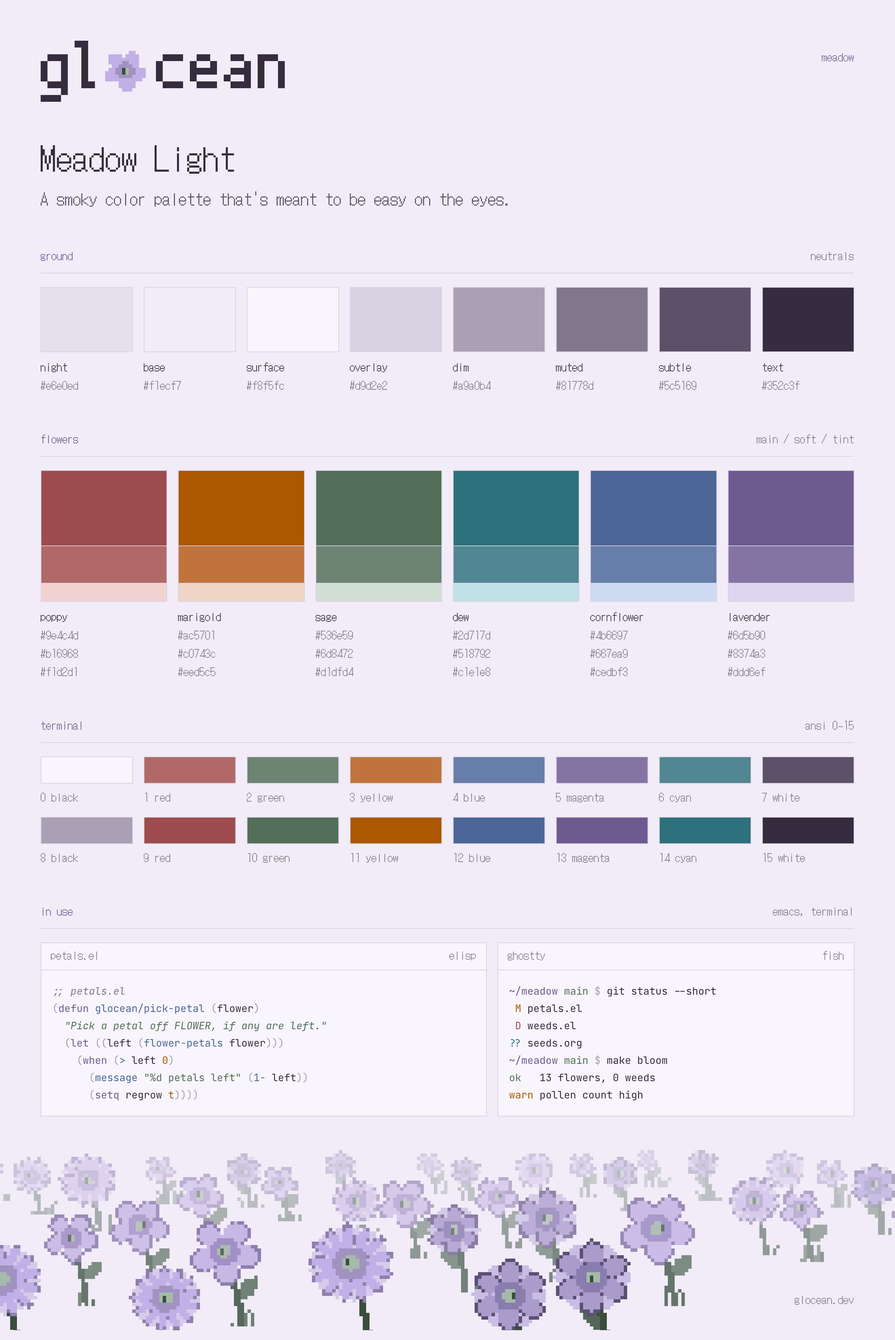
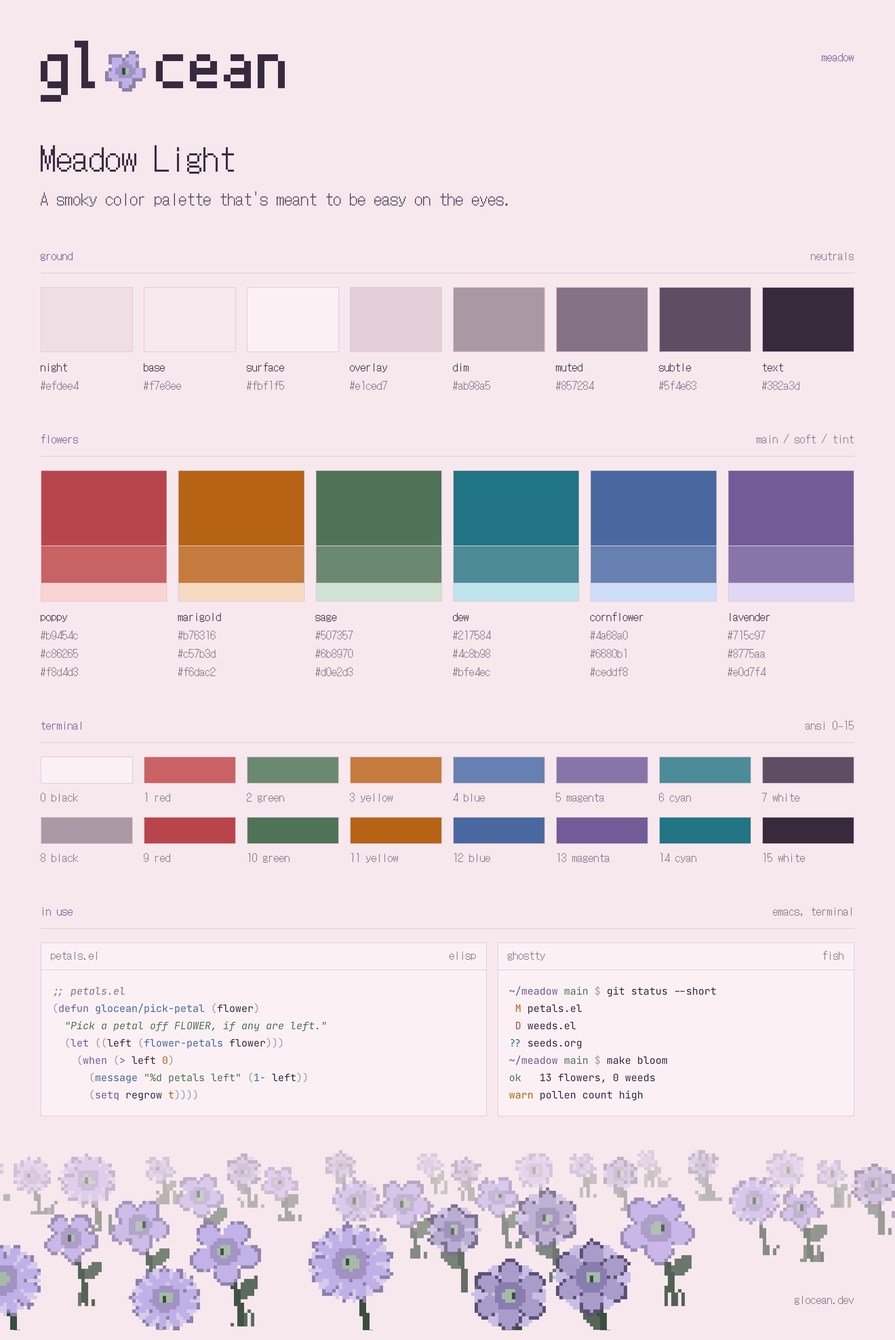
meadow: make light rosy

Changed region(s): [[0.0311, 0.3425, 0.1864, 0.4048], [0.1553, 0.5916, 0.2795, 0.6539], [0.1242, 0.0311, 0.1553, 0.0623]]

diff --git a/meadow/index.html b/meadow/index.html
@@ -5,7 +5,7 @@
   <meta name="viewport" content="width=device-width, initial-scale=1.0">
   <title>Glocean - meadow</title>
   <script>(function(){var e=document.documentElement;e.className+=' js';try{var t=localStorage.getItem('theme');if(t==='light'||t==='dark')e.setAttribute('data-theme',t);}catch(n){}})();</script>
-  <style>html{color-scheme:dark;background:#1f1a24}@media(prefers-color-scheme:light){html:not([data-theme=dark]){color-scheme:light;background:#f1ecf7}}html[data-theme=light]{color-scheme:light;background:#f1ecf7}</style>
+  <style>html{color-scheme:dark;background:#1f1a24}@media(prefers-color-scheme:light){html:not([data-theme=dark]){color-scheme:light;background:#f7e8ee}}html[data-theme=light]{color-scheme:light;background:#f7e8ee}</style>
   <meta name="theme-color" content="#c1b0e7">
   <meta property="og:title" content="Glocean - meadow">
   <meta property="og:image" content="https://glocean.dev/assets/og.png">
@@ -100,44 +100,44 @@
 
               <div class="pal-label"><span>ground</span><span>neutrals</span></div>
               <div class="swatches">
-                <button type="button" class="swatch" data-hex="#e6e0ed" aria-label="copy night #e6e0ed"><span class="chip" style="background:#e6e0ed"></span><span>night</span><span class="hex">#e6e0ed</span></button>
-                <button type="button" class="swatch" data-hex="#f1ecf7" aria-label="copy base #f1ecf7"><span class="chip" style="background:#f1ecf7"></span><span>base</span><span class="hex">#f1ecf7</span></button>
-                <button type="button" class="swatch" data-hex="#f8f5fc" aria-label="copy surface #f8f5fc"><span class="chip" style="background:#f8f5fc"></span><span>surface</span><span class="hex">#f8f5fc</span></button>
-                <button type="button" class="swatch" data-hex="#d9d2e2" aria-label="copy overlay #d9d2e2"><span class="chip" style="background:#d9d2e2"></span><span>overlay</span><span class="hex">#d9d2e2</span></button>
-                <button type="button" class="swatch" data-hex="#a9a0b4" aria-label="copy dim #a9a0b4"><span class="chip" style="background:#a9a0b4"></span><span>dim</span><span class="hex">#a9a0b4</span></button>
-                <button type="button" class="swatch" data-hex="#81778d" aria-label="copy muted #81778d"><span class="chip" style="background:#81778d"></span><span>muted</span><span class="hex">#81778d</span></button>
-                <button type="button" class="swatch" data-hex="#5c5169" aria-label="copy subtle #5c5169"><span class="chip" style="background:#5c5169"></span><span>subtle</span><span class="hex">#5c5169</span></button>
-                <button type="button" class="swatch" data-hex="#352c3f" aria-label="copy text #352c3f"><span class="chip" style="background:#352c3f"></span><span>text</span><span class="hex">#352c3f</span></button>
+                <button type="button" class="swatch" data-hex="#efdee4" aria-label="copy night #efdee4"><span class="chip" style="background:#efdee4"></span><span>night</span><span class="hex">#efdee4</span></button>
+                <button type="button" class="swatch" data-hex="#f7e8ee" aria-label="copy base #f7e8ee"><span class="chip" style="background:#f7e8ee"></span><span>base</span><span class="hex">#f7e8ee</span></button>
+                <button type="button" class="swatch" data-hex="#fbf1f5" aria-label="copy surface #fbf1f5"><span class="chip" style="background:#fbf1f5"></span><span>surface</span><span class="hex">#fbf1f5</span></button>
+                <button type="button" class="swatch" data-hex="#e1ced7" aria-label="copy overlay #e1ced7"><span class="chip" style="background:#e1ced7"></span><span>overlay</span><span class="hex">#e1ced7</span></button>
+                <button type="button" class="swatch" data-hex="#ab98a5" aria-label="copy dim #ab98a5"><span class="chip" style="background:#ab98a5"></span><span>dim</span><span class="hex">#ab98a5</span></button>
+                <button type="button" class="swatch" data-hex="#857284" aria-label="copy muted #857284"><span class="chip" style="background:#857284"></span><span>muted</span><span class="hex">#857284</span></button>
+                <button type="button" class="swatch" data-hex="#5f4e63" aria-label="copy subtle #5f4e63"><span class="chip" style="background:#5f4e63"></span><span>subtle</span><span class="hex">#5f4e63</span></button>
+                <button type="button" class="swatch" data-hex="#382a3d" aria-label="copy text #382a3d"><span class="chip" style="background:#382a3d"></span><span>text</span><span class="hex">#382a3d</span></button>
               </div>
 
               <div class="pal-label"><span>flowers</span><span>main / soft / tint</span></div>
               <div class="swatches flowers">
-                <div class="flower"><span>poppy</span><button type="button" class="shade" data-hex="#9e4c4d" aria-label="copy poppy main #9e4c4d"><span class="chip" style="background:#9e4c4d"></span><span class="hex">#9e4c4d</span></button><button type="button" class="shade" data-hex="#b16968" aria-label="copy poppy soft #b16968"><span class="chip" style="background:#b16968"></span><span class="hex">#b16968</span></button><button type="button" class="shade" data-hex="#f1d2d1" aria-label="copy poppy tint #f1d2d1"><span class="chip" style="background:#f1d2d1"></span><span class="hex">#f1d2d1</span></button></div>
-                <div class="flower"><span>marigold</span><button type="button" class="shade" data-hex="#ac5701" aria-label="copy marigold main #ac5701"><span class="chip" style="background:#ac5701"></span><span class="hex">#ac5701</span></button><button type="button" class="shade" data-hex="#c0743c" aria-label="copy marigold soft #c0743c"><span class="chip" style="background:#c0743c"></span><span class="hex">#c0743c</span></button><button type="button" class="shade" data-hex="#eed5c5" aria-label="copy marigold tint #eed5c5"><span class="chip" style="background:#eed5c5"></span><span class="hex">#eed5c5</span></button></div>
-                <div class="flower"><span>sage</span><button type="button" class="shade" data-hex="#536e59" aria-label="copy sage main #536e59"><span class="chip" style="background:#536e59"></span><span class="hex">#536e59</span></button><button type="button" class="shade" data-hex="#6d8472" aria-label="copy sage soft #6d8472"><span class="chip" style="background:#6d8472"></span><span class="hex">#6d8472</span></button><button type="button" class="shade" data-hex="#d1dfd4" aria-label="copy sage tint #d1dfd4"><span class="chip" style="background:#d1dfd4"></span><span class="hex">#d1dfd4</span></button></div>
-                <div class="flower"><span>dew</span><button type="button" class="shade" data-hex="#2d717d" aria-label="copy dew main #2d717d"><span class="chip" style="background:#2d717d"></span><span class="hex">#2d717d</span></button><button type="button" class="shade" data-hex="#518792" aria-label="copy dew soft #518792"><span class="chip" style="background:#518792"></span><span class="hex">#518792</span></button><button type="button" class="shade" data-hex="#c1e1e8" aria-label="copy dew tint #c1e1e8"><span class="chip" style="background:#c1e1e8"></span><span class="hex">#c1e1e8</span></button></div>
-                <div class="flower"><span>cornflower</span><button type="button" class="shade" data-hex="#4b6697" aria-label="copy cornflower main #4b6697"><span class="chip" style="background:#4b6697"></span><span class="hex">#4b6697</span></button><button type="button" class="shade" data-hex="#667ea9" aria-label="copy cornflower soft #667ea9"><span class="chip" style="background:#667ea9"></span><span class="hex">#667ea9</span></button><button type="button" class="shade" data-hex="#cedbf3" aria-label="copy cornflower tint #cedbf3"><span class="chip" style="background:#cedbf3"></span><span class="hex">#cedbf3</span></button></div>
-                <div class="flower"><span>lavender</span><button type="button" class="shade" data-hex="#6d5b90" aria-label="copy lavender main #6d5b90"><span class="chip" style="background:#6d5b90"></span><span class="hex">#6d5b90</span></button><button type="button" class="shade" data-hex="#8374a3" aria-label="copy lavender soft #8374a3"><span class="chip" style="background:#8374a3"></span><span class="hex">#8374a3</span></button><button type="button" class="shade" data-hex="#ddd6ef" aria-label="copy lavender tint #ddd6ef"><span class="chip" style="background:#ddd6ef"></span><span class="hex">#ddd6ef</span></button></div>
+                <div class="flower"><span>poppy</span><button type="button" class="shade" data-hex="#b9454c" aria-label="copy poppy main #b9454c"><span class="chip" style="background:#b9454c"></span><span class="hex">#b9454c</span></button><button type="button" class="shade" data-hex="#c86265" aria-label="copy poppy soft #c86265"><span class="chip" style="background:#c86265"></span><span class="hex">#c86265</span></button><button type="button" class="shade" data-hex="#f8d4d3" aria-label="copy poppy tint #f8d4d3"><span class="chip" style="background:#f8d4d3"></span><span class="hex">#f8d4d3</span></button></div>
+                <div class="flower"><span>marigold</span><button type="button" class="shade" data-hex="#b76316" aria-label="copy marigold main #b76316"><span class="chip" style="background:#b76316"></span><span class="hex">#b76316</span></button><button type="button" class="shade" data-hex="#c57b3d" aria-label="copy marigold soft #c57b3d"><span class="chip" style="background:#c57b3d"></span><span class="hex">#c57b3d</span></button><button type="button" class="shade" data-hex="#f6dac2" aria-label="copy marigold tint #f6dac2"><span class="chip" style="background:#f6dac2"></span><span class="hex">#f6dac2</span></button></div>
+                <div class="flower"><span>sage</span><button type="button" class="shade" data-hex="#507357" aria-label="copy sage main #507357"><span class="chip" style="background:#507357"></span><span class="hex">#507357</span></button><button type="button" class="shade" data-hex="#6b8970" aria-label="copy sage soft #6b8970"><span class="chip" style="background:#6b8970"></span><span class="hex">#6b8970</span></button><button type="button" class="shade" data-hex="#d0e2d3" aria-label="copy sage tint #d0e2d3"><span class="chip" style="background:#d0e2d3"></span><span class="hex">#d0e2d3</span></button></div>
+                <div class="flower"><span>dew</span><button type="button" class="shade" data-hex="#217584" aria-label="copy dew main #217584"><span class="chip" style="background:#217584"></span><span class="hex">#217584</span></button><button type="button" class="shade" data-hex="#4c8b98" aria-label="copy dew soft #4c8b98"><span class="chip" style="background:#4c8b98"></span><span class="hex">#4c8b98</span></button><button type="button" class="shade" data-hex="#bfe4ec" aria-label="copy dew tint #bfe4ec"><span class="chip" style="background:#bfe4ec"></span><span class="hex">#bfe4ec</span></button></div>
+                <div class="flower"><span>cornflower</span><button type="button" class="shade" data-hex="#4a68a0" aria-label="copy cornflower main #4a68a0"><span class="chip" style="background:#4a68a0"></span><span class="hex">#4a68a0</span></button><button type="button" class="shade" data-hex="#6680b1" aria-label="copy cornflower soft #6680b1"><span class="chip" style="background:#6680b1"></span><span class="hex">#6680b1</span></button><button type="button" class="shade" data-hex="#ceddf8" aria-label="copy cornflower tint #ceddf8"><span class="chip" style="background:#ceddf8"></span><span class="hex">#ceddf8</span></button></div>
+                <div class="flower"><span>lavender</span><button type="button" class="shade" data-hex="#715c97" aria-label="copy lavender main #715c97"><span class="chip" style="background:#715c97"></span><span class="hex">#715c97</span></button><button type="button" class="shade" data-hex="#8775aa" aria-label="copy lavender soft #8775aa"><span class="chip" style="background:#8775aa"></span><span class="hex">#8775aa</span></button><button type="button" class="shade" data-hex="#e0d7f4" aria-label="copy lavender tint #e0d7f4"><span class="chip" style="background:#e0d7f4"></span><span class="hex">#e0d7f4</span></button></div>
               </div>
 
               <div class="pal-label"><span>terminal</span><span>ansi 0-15</span></div>
               <div class="swatches">
-                <button type="button" class="swatch term" data-hex="#f8f5fc" aria-label="copy 0 black #f8f5fc"><span class="chip" style="background:#f8f5fc"></span><span>0 black</span><span class="hex">#f8f5fc</span></button>
-                <button type="button" class="swatch term" data-hex="#b16968" aria-label="copy 1 red #b16968"><span class="chip" style="background:#b16968"></span><span>1 red</span><span class="hex">#b16968</span></button>
-                <button type="button" class="swatch term" data-hex="#6d8472" aria-label="copy 2 green #6d8472"><span class="chip" style="background:#6d8472"></span><span>2 green</span><span class="hex">#6d8472</span></button>
-                <button type="button" class="swatch term" data-hex="#c0743c" aria-label="copy 3 yellow #c0743c"><span class="chip" style="background:#c0743c"></span><span>3 yellow</span><span class="hex">#c0743c</span></button>
-                <button type="button" class="swatch term" data-hex="#667ea9" aria-label="copy 4 blue #667ea9"><span class="chip" style="background:#667ea9"></span><span>4 blue</span><span class="hex">#667ea9</span></button>
-                <button type="button" class="swatch term" data-hex="#8374a3" aria-label="copy 5 magenta #8374a3"><span class="chip" style="background:#8374a3"></span><span>5 magenta</span><span class="hex">#8374a3</span></button>
-                <button type="button" class="swatch term" data-hex="#518792" aria-label="copy 6 cyan #518792"><span class="chip" style="background:#518792"></span><span>6 cyan</span><span class="hex">#518792</span></button>
-                <button type="button" class="swatch term" data-hex="#5c5169" aria-label="copy 7 white #5c5169"><span class="chip" style="background:#5c5169"></span><span>7 white</span><span class="hex">#5c5169</span></button>
-                <button type="button" class="swatch term" data-hex="#a9a0b4" aria-label="copy 8 black #a9a0b4"><span class="chip" style="background:#a9a0b4"></span><span>8 black</span><span class="hex">#a9a0b4</span></button>
-                <button type="button" class="swatch term" data-hex="#9e4c4d" aria-label="copy 9 red #9e4c4d"><span class="chip" style="background:#9e4c4d"></span><span>9 red</span><span class="hex">#9e4c4d</span></button>
-                <button type="button" class="swatch term" data-hex="#536e59" aria-label="copy 10 green #536e59"><span class="chip" style="background:#536e59"></span><span>10 green</span><span class="hex">#536e59</span></button>
-                <button type="button" class="swatch term" data-hex="#ac5701" aria-label="copy 11 yellow #ac5701"><span class="chip" style="background:#ac5701"></span><span>11 yellow</span><span class="hex">#ac5701</span></button>
-                <button type="button" class="swatch term" data-hex="#4b6697" aria-label="copy 12 blue #4b6697"><span class="chip" style="background:#4b6697"></span><span>12 blue</span><span class="hex">#4b6697</span></button>
-                <button type="button" class="swatch term" data-hex="#6d5b90" aria-label="copy 13 magenta #6d5b90"><span class="chip" style="background:#6d5b90"></span><span>13 magenta</span><span class="hex">#6d5b90</span></button>
-                <button type="button" class="swatch term" data-hex="#2d717d" aria-label="copy 14 cyan #2d717d"><span class="chip" style="background:#2d717d"></span><span>14 cyan</span><span class="hex">#2d717d</span></button>
-                <button type="button" class="swatch term" data-hex="#352c3f" aria-label="copy 15 white #352c3f"><span class="chip" style="background:#352c3f"></span><span>15 white</span><span class="hex">#352c3f</span></button>
+                <button type="button" class="swatch term" data-hex="#fbf1f5" aria-label="copy 0 black #fbf1f5"><span class="chip" style="background:#fbf1f5"></span><span>0 black</span><span class="hex">#fbf1f5</span></button>
+                <button type="button" class="swatch term" data-hex="#c86265" aria-label="copy 1 red #c86265"><span class="chip" style="background:#c86265"></span><span>1 red</span><span class="hex">#c86265</span></button>
+                <button type="button" class="swatch term" data-hex="#6b8970" aria-label="copy 2 green #6b8970"><span class="chip" style="background:#6b8970"></span><span>2 green</span><span class="hex">#6b8970</span></button>
+                <button type="button" class="swatch term" data-hex="#c57b3d" aria-label="copy 3 yellow #c57b3d"><span class="chip" style="background:#c57b3d"></span><span>3 yellow</span><span class="hex">#c57b3d</span></button>
+                <button type="button" class="swatch term" data-hex="#6680b1" aria-label="copy 4 blue #6680b1"><span class="chip" style="background:#6680b1"></span><span>4 blue</span><span class="hex">#6680b1</span></button>
+                <button type="button" class="swatch term" data-hex="#8775aa" aria-label="copy 5 magenta #8775aa"><span class="chip" style="background:#8775aa"></span><span>5 magenta</span><span class="hex">#8775aa</span></button>
+                <button type="button" class="swatch term" data-hex="#4c8b98" aria-label="copy 6 cyan #4c8b98"><span class="chip" style="background:#4c8b98"></span><span>6 cyan</span><span class="hex">#4c8b98</span></button>
+                <button type="button" class="swatch term" data-hex="#5f4e63" aria-label="copy 7 white #5f4e63"><span class="chip" style="background:#5f4e63"></span><span>7 white</span><span class="hex">#5f4e63</span></button>
+                <button type="button" class="swatch term" data-hex="#ab98a5" aria-label="copy 8 black #ab98a5"><span class="chip" style="background:#ab98a5"></span><span>8 black</span><span class="hex">#ab98a5</span></button>
+                <button type="button" class="swatch term" data-hex="#b9454c" aria-label="copy 9 red #b9454c"><span class="chip" style="background:#b9454c"></span><span>9 red</span><span class="hex">#b9454c</span></button>
+                <button type="button" class="swatch term" data-hex="#507357" aria-label="copy 10 green #507357"><span class="chip" style="background:#507357"></span><span>10 green</span><span class="hex">#507357</span></button>
+                <button type="button" class="swatch term" data-hex="#b76316" aria-label="copy 11 yellow #b76316"><span class="chip" style="background:#b76316"></span><span>11 yellow</span><span class="hex">#b76316</span></button>
+                <button type="button" class="swatch term" data-hex="#4a68a0" aria-label="copy 12 blue #4a68a0"><span class="chip" style="background:#4a68a0"></span><span>12 blue</span><span class="hex">#4a68a0</span></button>
+                <button type="button" class="swatch term" data-hex="#715c97" aria-label="copy 13 magenta #715c97"><span class="chip" style="background:#715c97"></span><span>13 magenta</span><span class="hex">#715c97</span></button>
+                <button type="button" class="swatch term" data-hex="#217584" aria-label="copy 14 cyan #217584"><span class="chip" style="background:#217584"></span><span>14 cyan</span><span class="hex">#217584</span></button>
+                <button type="button" class="swatch term" data-hex="#382a3d" aria-label="copy 15 white #382a3d"><span class="chip" style="background:#382a3d"></span><span>15 white</span><span class="hex">#382a3d</span></button>
               </div>
             </div>
 

diff --git a/css/style.css b/css/style.css
@@ -22,33 +22,33 @@
 @media (prefers-color-scheme: light) {
   :root:not([data-theme="dark"]) {
     color-scheme: light;
-    --base: #f1ecf7;
-    --text: #352c3f;
-    --head: #2b2234;
-    --body: #3f3649;
-    --subtle: #5c5169;
-    --muted: #81778d;
-    --accent: #6d5b90;
-    --sage: #536e59;
-    --line: #d9d2e2;
-    --code: #e6e0ed;
-    --pre: #e6e0ed;
+    --base: #f7e8ee;
+    --text: #382a3d;
+    --head: #2e2133;
+    --body: #423448;
+    --subtle: #5f4e63;
+    --muted: #857284;
+    --accent: #715c97;
+    --sage: #507357;
+    --line: #e1ced7;
+    --code: #efdee4;
+    --pre: #efdee4;
   }
 }
 
 :root[data-theme="light"] {
   color-scheme: light;
-  --base: #f1ecf7;
-  --text: #352c3f;
-  --head: #2b2234;
-  --body: #3f3649;
-  --subtle: #5c5169;
-  --muted: #81778d;
-  --accent: #6d5b90;
-  --sage: #536e59;
-  --line: #d9d2e2;
-  --code: #e6e0ed;
-  --pre: #e6e0ed;
+  --base: #f7e8ee;
+  --text: #382a3d;
+  --head: #2e2133;
+  --body: #423448;
+  --subtle: #5f4e63;
+  --muted: #857284;
+  --accent: #715c97;
+  --sage: #507357;
+  --line: #e1ced7;
+  --code: #efdee4;
+  --pre: #efdee4;
 }
 
 *, *::before, *::after { box-sizing: border-box; }

diff --git a/writing/the-state-of-macos-window-managers/index.html b/writing/the-state-of-macos-window-managers/index.html
@@ -5,7 +5,7 @@
   <meta name="viewport" content="width=device-width, initial-scale=1.0">
   <title>Glocean - The State of macOS Window Managers</title>
   <script>(function(){var e=document.documentElement;e.className+=' js';try{var t=localStorage.getItem('theme');if(t==='light'||t==='dark')e.setAttribute('data-theme',t);}catch(n){}})();</script>
-  <style>html{color-scheme:dark;background:#1f1a24}@media(prefers-color-scheme:light){html:not([data-theme=dark]){color-scheme:light;background:#f1ecf7}}html[data-theme=light]{color-scheme:light;background:#f1ecf7}</style>
+  <style>html{color-scheme:dark;background:#1f1a24}@media(prefers-color-scheme:light){html:not([data-theme=dark]){color-scheme:light;background:#f7e8ee}}html[data-theme=light]{color-scheme:light;background:#f7e8ee}</style>
   <meta name="theme-color" content="#c1b0e7">
   <meta property="og:title" content="Glocean - The State of macOS Window Managers">
   <meta property="og:image" content="https://glocean.dev/assets/og.png">

diff --git a/writing/why-emacs/index.html b/writing/why-emacs/index.html
@@ -5,7 +5,7 @@
   <meta name="viewport" content="width=device-width, initial-scale=1.0">
   <title>Glocean - Why Emacs?</title>
   <script>(function(){var e=document.documentElement;e.className+=' js';try{var t=localStorage.getItem('theme');if(t==='light'||t==='dark')e.setAttribute('data-theme',t);}catch(n){}})();</script>
-  <style>html{color-scheme:dark;background:#1f1a24}@media(prefers-color-scheme:light){html:not([data-theme=dark]){color-scheme:light;background:#f1ecf7}}html[data-theme=light]{color-scheme:light;background:#f1ecf7}</style>
+  <style>html{color-scheme:dark;background:#1f1a24}@media(prefers-color-scheme:light){html:not([data-theme=dark]){color-scheme:light;background:#f7e8ee}}html[data-theme=light]{color-scheme:light;background:#f7e8ee}</style>
   <meta name="theme-color" content="#c1b0e7">
   <meta property="og:title" content="Glocean - Why Emacs?">
   <meta property="og:image" content="https://glocean.dev/assets/og.png">

diff --git a/friends/index.html b/friends/index.html
@@ -5,7 +5,7 @@
   <meta name="viewport" content="width=device-width, initial-scale=1.0">
   <title>Glocean - friends</title>
   <script>(function(){var e=document.documentElement;e.className+=' js';try{var t=localStorage.getItem('theme');if(t==='light'||t==='dark')e.setAttribute('data-theme',t);}catch(n){}})();</script>
-  <style>html{color-scheme:dark;background:#1f1a24}@media(prefers-color-scheme:light){html:not([data-theme=dark]){color-scheme:light;background:#f1ecf7}}html[data-theme=light]{color-scheme:light;background:#f1ecf7}</style>
+  <style>html{color-scheme:dark;background:#1f1a24}@media(prefers-color-scheme:light){html:not([data-theme=dark]){color-scheme:light;background:#f7e8ee}}html[data-theme=light]{color-scheme:light;background:#f7e8ee}</style>
   <meta name="theme-color" content="#c1b0e7">
   <meta property="og:title" content="Glocean - friends">
   <meta property="og:image" content="https://glocean.dev/assets/og.png">

diff --git a/writing/index.html b/writing/index.html
@@ -5,7 +5,7 @@
   <meta name="viewport" content="width=device-width, initial-scale=1.0">
   <title>Glocean - writing</title>
   <script>(function(){var e=document.documentElement;e.className+=' js';try{var t=localStorage.getItem('theme');if(t==='light'||t==='dark')e.setAttribute('data-theme',t);}catch(n){}})();</script>
-  <style>html{color-scheme:dark;background:#1f1a24}@media(prefers-color-scheme:light){html:not([data-theme=dark]){color-scheme:light;background:#f1ecf7}}html[data-theme=light]{color-scheme:light;background:#f1ecf7}</style>
+  <style>html{color-scheme:dark;background:#1f1a24}@media(prefers-color-scheme:light){html:not([data-theme=dark]){color-scheme:light;background:#f7e8ee}}html[data-theme=light]{color-scheme:light;background:#f7e8ee}</style>
   <meta name="theme-color" content="#c1b0e7">
   <meta property="og:title" content="Glocean - writing">
   <meta property="og:image" content="https://glocean.dev/assets/og.png">

diff --git a/about/index.html b/about/index.html
@@ -5,7 +5,7 @@
   <meta name="viewport" content="width=device-width, initial-scale=1.0">
   <title>Glocean - about</title>
   <script>(function(){var e=document.documentElement;e.className+=' js';try{var t=localStorage.getItem('theme');if(t==='light'||t==='dark')e.setAttribute('data-theme',t);}catch(n){}})();</script>
-  <style>html{color-scheme:dark;background:#1f1a24}@media(prefers-color-scheme:light){html:not([data-theme=dark]){color-scheme:light;background:#f1ecf7}}html[data-theme=light]{color-scheme:light;background:#f1ecf7}</style>
+  <style>html{color-scheme:dark;background:#1f1a24}@media(prefers-color-scheme:light){html:not([data-theme=dark]){color-scheme:light;background:#f7e8ee}}html[data-theme=light]{color-scheme:light;background:#f7e8ee}</style>
   <meta name="theme-color" content="#c1b0e7">
   <meta property="og:title" content="Glocean - about">
   <meta property="og:image" content="https://glocean.dev/assets/og.png">

diff --git a/made/index.html b/made/index.html
@@ -5,7 +5,7 @@
   <meta name="viewport" content="width=device-width, initial-scale=1.0">
   <title>Glocean - made</title>
   <script>(function(){var e=document.documentElement;e.className+=' js';try{var t=localStorage.getItem('theme');if(t==='light'||t==='dark')e.setAttribute('data-theme',t);}catch(n){}})();</script>
-  <style>html{color-scheme:dark;background:#1f1a24}@media(prefers-color-scheme:light){html:not([data-theme=dark]){color-scheme:light;background:#f1ecf7}}html[data-theme=light]{color-scheme:light;background:#f1ecf7}</style>
+  <style>html{color-scheme:dark;background:#1f1a24}@media(prefers-color-scheme:light){html:not([data-theme=dark]){color-scheme:light;background:#f7e8ee}}html[data-theme=light]{color-scheme:light;background:#f7e8ee}</style>
   <meta name="theme-color" content="#c1b0e7">
   <meta property="og:title" content="Glocean - made">
   <meta property="og:image" content="https://glocean.dev/assets/og.png">

diff --git a/index.html b/index.html
@@ -5,7 +5,7 @@
   <meta name="viewport" content="width=device-width, initial-scale=1.0">
   <title>Glocean</title>
   <script>(function(){var e=document.documentElement;e.className+=' js';try{var t=localStorage.getItem('theme');if(t==='light'||t==='dark')e.setAttribute('data-theme',t);}catch(n){}})();</script>
-  <style>html{color-scheme:dark;background:#1f1a24}@media(prefers-color-scheme:light){html:not([data-theme=dark]){color-scheme:light;background:#f1ecf7}}html[data-theme=light]{color-scheme:light;background:#f1ecf7}</style>
+  <style>html{color-scheme:dark;background:#1f1a24}@media(prefers-color-scheme:light){html:not([data-theme=dark]){color-scheme:light;background:#f7e8ee}}html[data-theme=light]{color-scheme:light;background:#f7e8ee}</style>
   <meta name="theme-color" content="#c1b0e7">
   <meta property="og:title" content="Glocean">
   <meta property="og:image" content="https://glocean.dev/assets/og.png">

diff --git a/js/meadow.js b/js/meadow.js
@@ -44,7 +44,7 @@
       lav: ['#c1b0e7', '#a192c2', '#6b5c79', '#ebe7f0']
     },
     light: {
-      ground: '#f1ecf7', ink: '#352c3f',
+      ground: '#f7e8ee', ink: '#382a3d',
       white: ['#c1b0e7', '#a192c2', '#8e80ab', '#d5cbeb'],
       lav: ['#a99cca', '#897cae', '#5b4f75', '#c8bde4']
     }
